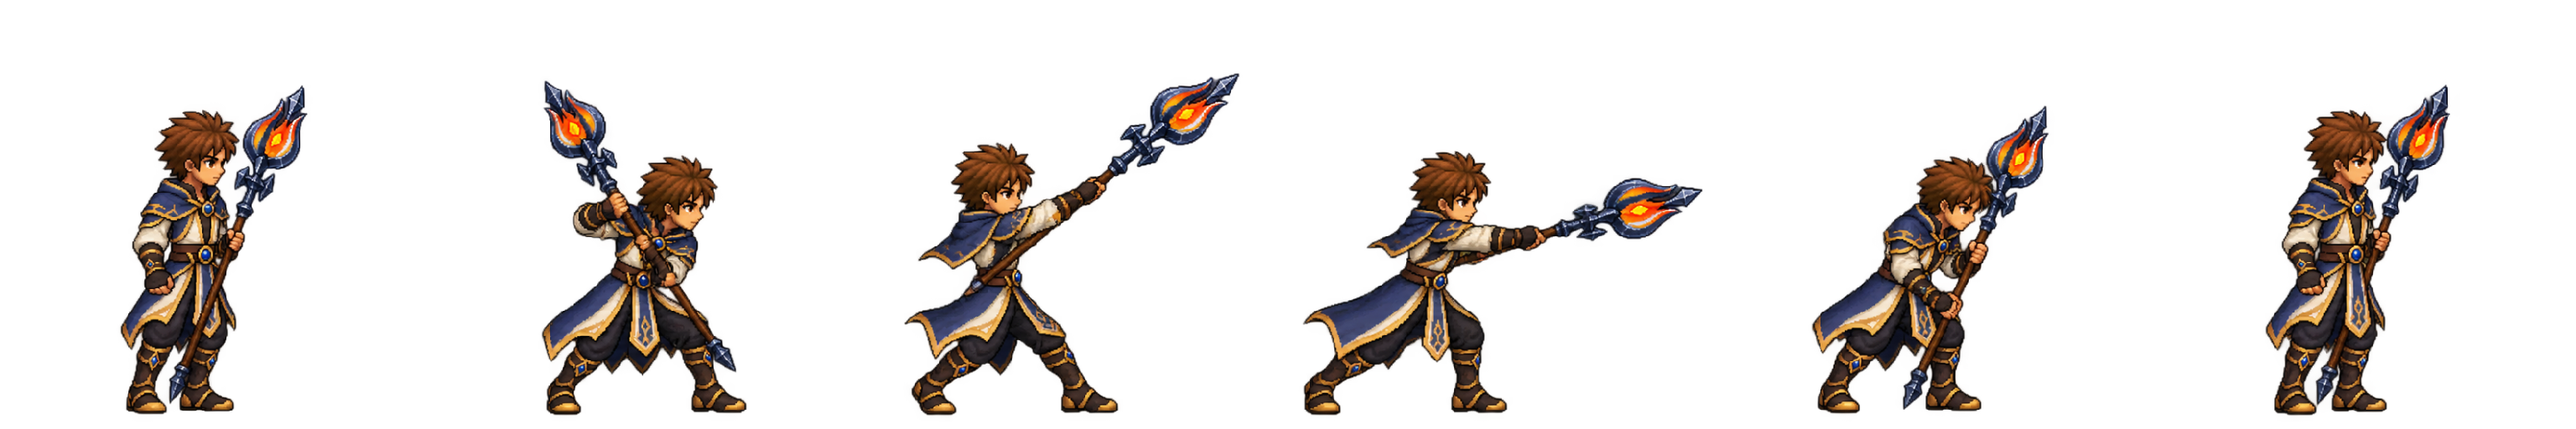
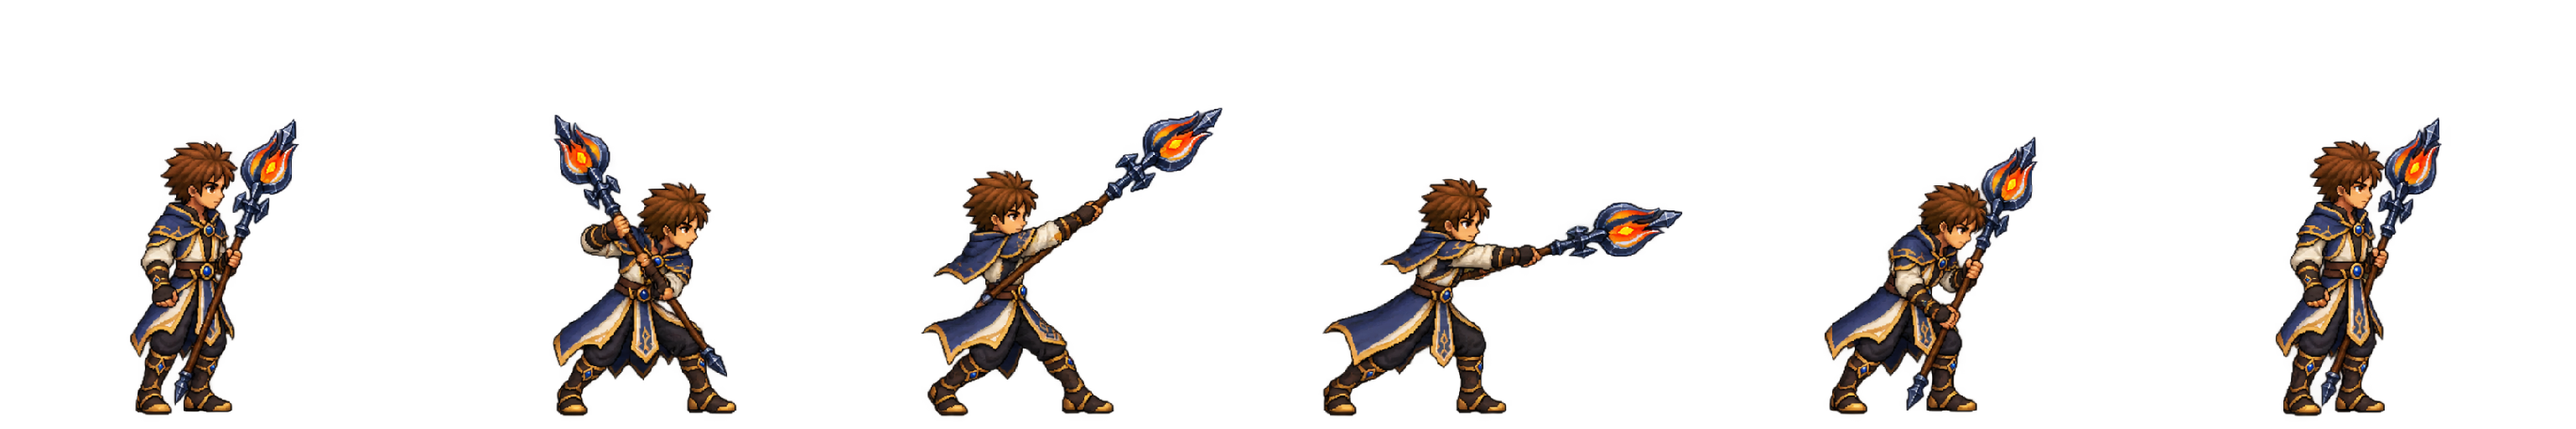
Correct infernal staff proportions and stabilize idle

diff --git a/apps/client/src/game/render/RenderManifestParsing.test.ts b/apps/client/src/game/render/RenderManifestParsing.test.ts
@@ -117,7 +117,7 @@ describe("Infernal Staff normalized animation parsing", () => {
       throw new Error("Expected actor manifest");
     }
 
-    expect(parsed.offset).toEqual({ x: 30, y: 58 });
+    expect(parsed.offset).toEqual({ x: 27, y: 58 });
 
     for (const animation of Object.values(parsed.animations)) {
       expect(animation.frameWidth).toBe(512);
